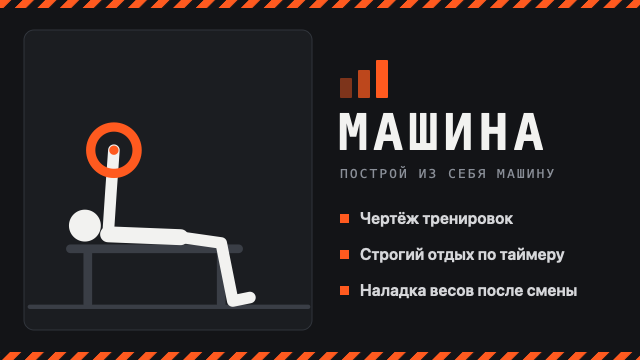
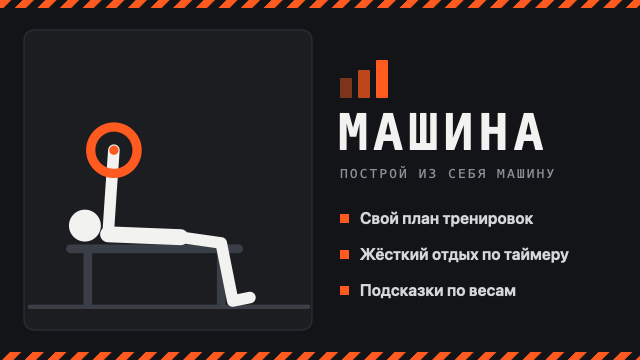
Тексты: тренировочный язык с напором вместо «завода»
- Интерфейс снова говорит «тренировка», «подход», «отдых», «план»
- Рекомендации на «ты» и энергичнее, смысл правил прежний
- Бот: новое описание, кнопка «Погнали», обложка без заводских терминов

Changed region(s): [[0.5625, 0.6722, 0.9062, 0.7333], [0.5625, 0.5806, 0.8438, 0.6417], [0.5625, 0.7944, 0.9062, 0.825]]

diff --git a/src/logic/progression.ts b/src/logic/progression.ts
@@ -35,8 +35,8 @@ function restNote(rests: RestRecord[] | undefined, success: boolean): string | n
   const planned = sets.reduce((s, r) => s + r.planned, 0);
   const actual = sets.reduce((s, r) => s + r.actual, 0);
   const dev = (actual - planned) / planned;
-  if (!success && dev < -0.25) return 'Отдых между подходами был заметно короче плана: скорее всего, не хватило восстановления. Не сокращайте его.';
-  if (success && dev > 0.25) return 'Результат получен с отдыхом длиннее плана. В следующий раз держите таймер, тогда прибавка будет честной.';
+  if (!success && dev < -0.25) return 'Отдыхал заметно меньше плана — мышцы не успели восстановиться. Держи таймер, а не гони.';
+  if (success && dev > 0.25) return 'Подходы взяты, но с отдыхом длиннее плана. В следующий раз держи таймер — тогда прибавка честная.';
   return null;
 }
 
@@ -58,7 +58,7 @@ export function recommend(cur: ProgressInput, prev?: PrevInfo): Recommendation {
     if (!success && cur.setReps?.length) {
       const short = cur.setReps.filter((x) => x < reps);
       const missing = short.reduce((s, x) => s + (reps - x), 0);
-      messages.splice(1, 0, `Повторы по подходам: ${cur.setReps.join(' · ')} (план ${reps}). Не хватило ${missing} повт.`);
+      messages.splice(1, 0, `Повторы по подходам: ${cur.setReps.join(' · ')} (план ${reps}). Не добрал ${missing} повт.`);
     }
     if (note) messages.push(note);
     return { ...r, messages };
@@ -72,7 +72,7 @@ export function recommend(cur: ProgressInput, prev?: PrevInfo): Recommendation {
         action: 'reps',
         nextWeight: W,
         nextReps,
-        messages: [nextReps > 15 ? `Отлично! Больше 15 повторов: пора добавить отягощение 2,5 кг.` : `Все подходы выполнены. В следующий раз ${nextReps} повторов в подходе.`],
+        messages: [nextReps > 15 ? `Больше 15 повторов — пора вешать отягощение 2,5 кг.` : `Все подходы закрыты. В следующий раз — ${nextReps} повторов в подходе.`],
         state: { ...base, weight: W, successStreak: base.successStreak + 1, failStreak: 0 },
       });
     }
@@ -80,7 +80,7 @@ export function recommend(cur: ProgressInput, prev?: PrevInfo): Recommendation {
       action: 'hold',
       nextWeight: W,
       nextReps: reps,
-      messages: [`Не все подходы выполнены. Остаёмся на ${reps} повторах, цель — закрыть все ${S} подходов.`],
+      messages: [`Не все подходы закрыты. Остаёмся на ${reps} повторах — добей все ${S} подходов.`],
       state: { ...base, successStreak: 0, failStreak: base.failStreak + 1 },
     });
   }
@@ -95,7 +95,7 @@ export function recommend(cur: ProgressInput, prev?: PrevInfo): Recommendation {
       nextWeight: next,
       nextReps: reps,
       messages: [
-        `Перерыв ${Math.round(gap)} дн. — сила временно просела, это нормально. Снизьте вес до ${fmtKg(next)} кг (−${Math.round((1 - k) * 100)}%) и вернитесь к ${fmtKg(W)} кг за несколько тренировок.`,
+        `Перерыв ${Math.round(gap)} дн. — сила просела, это нормально. Снижай до ${fmtKg(next)} кг (−${Math.round((1 - k) * 100)}%) и за несколько тренировок вернись к ${fmtKg(W)} кг.`,
       ],
       state: { weight: next, successStreak: 0, failStreak: 0, rebuildTarget: W, resetCount: base.resetCount },
     });
@@ -116,11 +116,11 @@ export function recommend(cur: ProgressInput, prev?: PrevInfo): Recommendation {
     if (streak >= need) {
       const next = roundDown(W + step, step);
       if (rebuilding && next >= (base.rebuildTarget as number)) {
-        msgs.push(`Норма выполнена. Разгон почти завершён: возвращаемся к ${fmtKg(next)} кг.`);
+        msgs.push(`Все подходы закрыты. Разгон почти завершён — дальше ${fmtKg(next)} кг.`);
       } else if (base.rebuildTarget != null && W === base.rebuildTarget) {
-        msgs.push(`Вес, на котором машина буксовала, взят. Следующая цель — ${fmtKg(next)} кг.`);
+        msgs.push(`Взял вес, на котором стоял. Следующая цель — ${fmtKg(next)} кг.`);
       } else {
-        msgs.push(`Норма выполнена. Повышаем нагрузку: в следующий раз ${fmtKg(next)} кг (+${fmtKg(step)}).`);
+        msgs.push(`Все подходы закрыты. В следующий раз — ${fmtKg(next)} кг (+${fmtKg(step)}). Растём.`);
       }
       return finish({
         action: 'increase',
@@ -129,7 +129,7 @@ export function recommend(cur: ProgressInput, prev?: PrevInfo): Recommendation {
         state: { weight: next, successStreak: 0, failStreak: 0, rebuildTarget, resetCount },
       });
     }
-    msgs.push(`Норма выполнена. В изолирующих упражнениях обкатываем вес ещё одну смену: снова ${fmtKg(W)} кг, потом прибавка.`);
+    msgs.push(`Все подходы закрыты. В изоляции закрепляем вес ещё одну тренировку: снова ${fmtKg(W)} кг, потом прибавка.`);
     return finish({
       action: 'hold',
       nextWeight: W,
@@ -153,7 +153,7 @@ export function recommend(cur: ProgressInput, prev?: PrevInfo): Recommendation {
         nextWeight: next,
         nextReps: reps,
         messages: [
-          `${fmtKg(W)} кг снова не поддались после отката. Машине нужна перенастройка, выберите один вариант:`,
+          `${fmtKg(W)} кг снова не поддались после отката. Меняем подход — выбери вариант:`,
           `• уменьшить шаг до ${fmtKg(half)} кг (мини-блины) и разогнаться от ${fmtKg(next)} кг;`,
           `• сменить схему ${S}×${reps} → ${S}×${Math.max(1, reps - 2)}, набрать вес, затем вернуть повторы.`,
         ],
@@ -171,8 +171,8 @@ export function recommend(cur: ProgressInput, prev?: PrevInfo): Recommendation {
       nextReps: reps,
       ladder,
       messages: [
-        `Две смены подряд ${fmtKg(target)} кг не взяты полностью: машина упёрлась. Плановое техобслуживание — откат на 10%, до ${fmtKg(next)} кг.`,
-        `План разгона: ${ladder.map(fmtKg).join(' → ')} кг. После обкатки машина вернётся к ${fmtKg(target)} кг и перешагнёт его.`,
+        `Две тренировки подряд ${fmtKg(target)} кг не взяты полностью — вес встал. Откатываемся на 10%, до ${fmtKg(next)} кг.`,
+        `План разгона: ${ladder.map(fmtKg).join(' → ')} кг. Вернёшься к ${fmtKg(target)} кг со свежими силами и пробьёшь его.`,
       ],
       state: { weight: next, successStreak: 0, failStreak: 0, rebuildTarget: target, resetCount },
     });
@@ -184,7 +184,7 @@ export function recommend(cur: ProgressInput, prev?: PrevInfo): Recommendation {
       action: 'decrease',
       nextWeight: next,
       nextReps: reps,
-      messages: [`Выполнено меньше половины подходов (${C} из ${S}). Снизьте вес до ${fmtKg(next)} кг и закрепите технику.`],
+      messages: [`Закрыто меньше половины подходов (${C} из ${S}). Снижаем до ${fmtKg(next)} кг и ставим технику.`],
       state: { weight: next, successStreak: 0, failStreak: 0, rebuildTarget: base.rebuildTarget ?? W, resetCount: base.resetCount },
     });
   }
@@ -193,7 +193,7 @@ export function recommend(cur: ProgressInput, prev?: PrevInfo): Recommendation {
     action: 'hold',
     nextWeight: W,
     nextReps: reps,
-    messages: [`Выполнено ${C} из ${S} подходов. Остаёмся на ${fmtKg(W)} кг, цель — закрыть все подходы.`],
+    messages: [`Закрыто ${C} из ${S} подходов. Остаёмся на ${fmtKg(W)} кг — добей все подходы.`],
     state: { ...base, successStreak: 0, failStreak: fails },
   });
 }

diff --git a/src/lib/i18n.ts b/src/lib/i18n.ts
@@ -3,17 +3,17 @@ import type { Lang } from '../logic/types';
 const ru = {
   appName: 'Машина',
   tagline: 'Построй из себя машину',
-  startWorkout: 'Запуск',
-  myPlans: 'Чертежи',
+  startWorkout: 'Начать тренировку',
+  myPlans: 'Мои планы тренировок',
   settings: 'Настройки',
   startHint: 'начать тренировку',
   plansHint: 'мои планы тренировок',
   settingsHint: 'тема, язык, документы',
   back: 'Назад',
-  continueWorkout: 'Продолжить смену',
-  lastWorkout: 'Последняя смена',
-  chooseSession: 'Какую программу запускаем?',
-  noSessions: 'Чертежей пока нет. Создайте первую тренировку в разделе «Чертежи».',
+  continueWorkout: 'Продолжить тренировку',
+  lastWorkout: 'Последняя тренировка',
+  chooseSession: 'Что качаем сегодня?',
+  noSessions: 'Планов пока нет. Создай первую тренировку — и погнали.',
   createSession: 'Создать тренировку',
   newSession: 'Новая тренировка',
   sessionName: 'Название тренировки',
@@ -47,28 +47,28 @@ const ru = {
   setDone: 'Подход выполнен',
   finishExercise: 'Завершить упражнение',
   skipExercise: 'Пропустить упражнение',
-  confirmTitle: 'Сколько повторений в каждом подходе?',
+  confirmTitle: 'Сколько повторов в каждом подходе?',
   confirmHint: 'План: {r} повторов с весом {w}. 0 — подход не делали.',
   setN: 'Подход {n}',
   addSet: 'Добавить подход',
   fullSets: 'Полностью выполнено: {a} из {b}',
   confirm: 'Подтвердить',
-  rest: 'Охлаждение',
-  restBetweenExercises: 'Охлаждение перед следующим упражнением',
-  overtime: 'Перегрев: отдых затянулся',
+  rest: 'Отдых',
+  restBetweenExercises: 'Отдых перед следующим упражнением',
+  overtime: 'Отдых затянулся — работать!',
   next: 'Дальше',
   startSet: 'Начать подход',
   startNextExercise: 'Начать упражнение',
-  finishWorkout: 'Завершить смену',
-  finishWorkoutQ: 'Завершить смену? Невыполненные упражнения будут отмечены как пропущенные.',
-  summary: 'Отчёт смены',
-  duration: 'Смена',
-  restDiscipline: 'КПД отдыха',
+  finishWorkout: 'Завершить тренировку',
+  finishWorkoutQ: 'Завершить тренировку? Невыполненные упражнения будут отмечены как пропущенные.',
+  summary: 'Итоги тренировки',
+  duration: 'Время',
+  restDiscipline: 'Дисциплина отдыха',
   onTime: 'вовремя',
   avgOver: 'средний перебор',
-  recommendations: 'Наладка на следующую смену',
-  applyToPlan: 'Внести в чертёж',
-  appliedToPlan: 'Чертёж обновлён',
+  recommendations: 'Что делаем в следующий раз',
+  applyToPlan: 'Применить к плану',
+  appliedToPlan: 'План обновлён',
   skipped: 'пропущено',
   toHome: 'На главную',
   theme: 'Тема',
@@ -85,7 +85,7 @@ const ru = {
   accessDenied: 'Тестовая версия доступна только участникам теста.',
   min: 'мин',
   sec: 'с',
-  emptyPlan: 'Добавьте упражнения из каталога',
+  emptyPlan: 'Добавь упражнения из каталога',
   edit: 'Изменить',
   workouts: 'тренировок',
   exercisesCount: 'упражнений',
@@ -102,17 +102,17 @@ type Dict = typeof ru;
 const en: Dict = {
   appName: 'Machine',
   tagline: 'Build yourself into a machine',
-  startWorkout: 'Start',
-  myPlans: 'Blueprints',
+  startWorkout: 'Start workout',
+  myPlans: 'My workout plans',
   settings: 'Settings',
   startHint: 'start a workout',
   plansHint: 'my workout plans',
   settingsHint: 'theme, language, documents',
   back: 'Back',
-  continueWorkout: 'Continue shift',
-  lastWorkout: 'Last shift',
-  chooseSession: 'Which program are we running?',
-  noSessions: 'No blueprints yet. Create your first workout in “Blueprints”.',
+  continueWorkout: 'Continue workout',
+  lastWorkout: 'Last workout',
+  chooseSession: 'What are we training today?',
+  noSessions: 'No plans yet. Create your first workout and let’s go.',
   createSession: 'Create workout',
   newSession: 'New workout',
   sessionName: 'Workout name',
@@ -152,22 +152,22 @@ const en: Dict = {
   addSet: 'Add set',
   fullSets: 'Fully completed: {a} of {b}',
   confirm: 'Confirm',
-  rest: 'Cooldown',
-  restBetweenExercises: 'Cooldown before the next exercise',
-  overtime: 'Overheating: rest is running over',
+  rest: 'Rest',
+  restBetweenExercises: 'Rest before the next exercise',
+  overtime: 'Rest is running over — get to work!',
   next: 'Next',
   startSet: 'Start set',
   startNextExercise: 'Start exercise',
-  finishWorkout: 'Finish shift',
-  finishWorkoutQ: 'Finish the shift? Remaining exercises will be marked as skipped.',
-  summary: 'Shift report',
-  duration: 'Shift',
-  restDiscipline: 'Rest efficiency',
+  finishWorkout: 'Finish workout',
+  finishWorkoutQ: 'Finish the workout? Remaining exercises will be marked as skipped.',
+  summary: 'Workout summary',
+  duration: 'Time',
+  restDiscipline: 'Rest discipline',
   onTime: 'on time',
   avgOver: 'avg overrun',
-  recommendations: 'Tuning for the next shift',
-  applyToPlan: 'Save to blueprint',
-  appliedToPlan: 'Blueprint updated',
+  recommendations: 'Next time',
+  applyToPlan: 'Apply to plan',
+  appliedToPlan: 'Plan updated',
   skipped: 'skipped',
   toHome: 'Home',
   theme: 'Theme',

diff --git a/src/logic/progression.test.ts b/src/logic/progression.test.ts
@@ -105,7 +105,7 @@ describe('recommend', () => {
         { kind: 'set', planned: 120, actual: 70 },
       ],
     });
-    expect(r.messages.some((m) => m.includes('короче плана'))).toBe(true);
+    expect(r.messages.some((m) => m.includes('меньше плана'))).toBe(true);
   });
 });
 
@@ -113,6 +113,6 @@ describe('повторы по подходам', () => {
   it('при неудаче показывает повторы и недобор', () => {
     const r = recommend({ ...base, completedSets: 2, plannedSets: 3, setReps: [8, 8, 6] });
     expect(r.messages[1]).toContain('8 · 8 · 6');
-    expect(r.messages[1]).toContain('Не хватило 2');
+    expect(r.messages[1]).toContain('Не добрал 2');
   });
 });

diff --git a/src/screens/Home.tsx b/src/screens/Home.tsx
@@ -31,16 +31,13 @@ export function Home() {
         ) : (
           <button className="btn btn-primary btn-xl" onClick={() => push({ name: 'pick' })}>
             {t('startWorkout')}
-            <small>{t('startHint')}</small>
           </button>
         )}
         <button className="btn btn-xl" onClick={() => push({ name: 'plans' })}>
           {t('myPlans')}
-          <small className="muted">{t('plansHint')}</small>
         </button>
         <button className="btn btn-xl" onClick={() => push({ name: 'settings' })}>
           {t('settings')}
-          <small className="muted">{t('settingsHint')}</small>
         </button>
       </nav>
 

diff --git a/branding/bot-profile.md b/branding/bot-profile.md
@@ -1,4 +1,4 @@
-# Оформление бота в @BotFather — тема «Завод»
+# Оформление бота в @BotFather — «Машина»
 
 Тексты, аватар и кнопка меню выставляются скриптом `node scripts/setup-bot.mjs`
 (токен в `.env.bot`). Картинку описания Bot API не поддерживает — она загружается вручную:
@@ -9,24 +9,24 @@
 Машина — построй из себя машину
 ```
 
-## О себе (98/120)
+## О себе (104/120)
 ```
-Построй из себя машину: чертёж тренировок, строгий отдых по таймеру и наладка весов. Жми «Запуск».
+Построй из себя машину. Свой план тренировок, жёсткий отдых по таймеру и подсказки, когда добавлять вес.
 ```
 
-## Описание (437/512)
+## Описание (396/512)
 ```
-МАШИНА — построй из себя машину.
+ПОСТРОЙ ИЗ СЕБЯ МАШИНУ.
 
-Машина работает по чертежу, держит режим и с каждой сменой выдаёт больше. Здесь так же:
+Без отговорок и без «с понедельника». Только план, вес и дисциплина.
 
-• Чертежи — свои тренировки из каталога на 200 упражнений с анимацией.
-• Охлаждение — таймер держит отдых между подходами и не даёт отвлечься.
-• Наладка — после смены подскажет, когда добавить вес, а когда пройти техобслуживание и разогнаться заново.
+• Составь свои тренировки из каталога на 200 упражнений с анимацией.
+• Таймер держит отдых между подходами — не залипнешь в телефоне.
+• После тренировки — чёткий ответ, когда добавлять вес, а когда откатиться и пробить заново.
 
-Данные хранятся только на вашем телефоне.
+Данные хранятся только на твоём телефоне.
 
-Жми «Запуск» внизу.
+Жми «Погнали» внизу и работай.
 ```
 
 ## Картинки
@@ -34,7 +34,7 @@
 - Картинка описания: `bot-cover.png` (640×360)
 
 ## Кнопка меню
-`Запуск` → `https://vovamarxist-dev.github.io/fitness-tracker/`
+`Погнали` → `https://vovamarxist-dev.github.io/fitness-tracker/`
 
 ## Команды — пока не задаём
 У бота нет сервера, поэтому на сообщения и команды он не отвечает.
